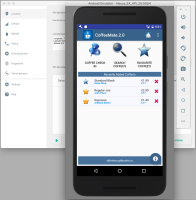
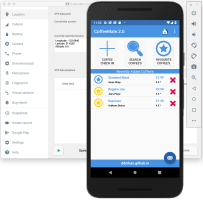
MB - More Updates to Lab02

diff --git a/topic02-ui-design/unit-1/book-coffeemate-lab-02/index.html b/topic02-ui-design/unit-1/book-coffeemate-lab-02/index.html
@@ -1039,11 +1039,11 @@ getActivity().startActivity(goEdit); // Launch the Intent</code></pre>
 <p>Currently, if we wanted to delete more than one coffee at a time we need to delete them individually, which does achieve what we want, but is not a great User Experience if there are dozens of coffees to remove.</p>
 <p>This is where we can utilise a Context Menu and the ActionBar / Action Mode features available to us in Android.</p>
 <h1>Setting up your Resources &amp; XML</h1>
-<p>This is what we want when the user &#39;Long Clicks&#39; a row in our List.</p>
-<p><img src="img/lab0310.png" alt=""></p>
+<p>This is what we want when the user &#39;Long Clicks&#39; a row (or rows) in our List.</p>
+<p><img src="img/multidelete1.png" alt=""></p>
 <p>Note the different (Context) Menu for deleting.</p>
-<p>And then subsequently</p>
-<p><img src="img/lab0311.png" alt=""></p>
+<p>And then subsequently (after deleting)</p>
+<p><img src="img/multidelete2.png" alt=""></p>
 <p>To achieve this we need to</p>
 <ul>
 <li><p>design the Context Menu</p>
@@ -1054,33 +1054,36 @@ getActivity().startActivity(goEdit); // Launch the Intent</code></pre>
 </li>
 </ul>
 <p>First, let&#39;s design the Menu to look something this:</p>
-<p><img src="img/lab0312.png" alt=""></p>
+<p><img src="img/delete1.png" alt=""></p>
 <p>and</p>
-<p><img src="img/lab0313.png" alt=""></p>
-<p>create a new menu resource in the &#39;menu&#39; folder called &#39;delete_list_context.xml&#39; and place the following code inside it - just make sure you have the proper string resource set up beforehand (&#39;deleteCoffeesLbl&#39;)</p>
+<p><img src="img/delete2.png" alt=""></p>
+<p>create a new menu resource in the &#39;menu&#39; folder called <b>delete_list_context.xml</b> and place the following code inside it - just make sure you have the proper string resource set up beforehand (&#39;deleteCoffeesLbl&#39;)</p>
 <pre><code class="lang-XML">&lt;?xml version=&quot;1.0&quot; encoding=&quot;utf-8&quot;?&gt;
 &lt;menu xmlns:app=&quot;http://schemas.android.com/apk/res-auto&quot;
     xmlns:android=&quot;http://schemas.android.com/apk/res/android&quot;&gt;
     &lt;item
         android:id=&quot;@+id/menu_item_delete_coffee&quot;
         android:icon=&quot;@android:drawable/ic_menu_delete&quot;
-        android:title=&quot;@string/deleteCoffeesLbl&quot; /&gt;
+        android:title=&quot;@string/deleteCoffeesLbl&quot;
+        app:showAsAction=&quot;ifRoom&quot; /&gt;
 &lt;/menu&gt;</code></pre>
-<p>Next, create a new drawable <b>selector</b> resource xml file in the &#39;drawable&#39; folder called &#39;background_activated.xml&#39; and place the following inside</p>
+<p>Next, add a new &#39;color&#39; Resource</p>
+<pre><code class="lang-xml">&lt;color name=&quot;colorMultiDelete&quot;&gt;#b1c4d9&lt;/color&gt;</code></pre>
+<p>and then, create a new <b>drawable</b> resource xml file in the &#39;drawable&#39; folder called &#39;background_activated.xml&#39; and place the following inside</p>
 <pre><code class="lang-XML">&lt;?xml version=&quot;1.0&quot; encoding=&quot;utf-8&quot;?&gt;
 &lt;selector xmlns:android=&quot;http://schemas.android.com/apk/res/android&quot; &gt;
     &lt;item
         android:state_activated=&quot;true&quot;
-        android:drawable=&quot;@color/appFooterBGColor&quot;
+        android:drawable=&quot;@color/colorMultiDelete&quot;
         /&gt;
 &lt;/selector&gt;</code></pre>
 <p>Now, edit your <b>coffeerow.xml</b> and add the resource you just created as the background color property for the whole layout (at the top), like so</p>
 <pre><code class="lang-xml"> android:background=&quot;@drawable/background_activated&quot;</code></pre>
-<p>Finally, edit your <b>styles.xml</b> and add the following to your &#39;AppTheme&#39; style. If you like, you can experiment with you own colors?</p>
+<p>Finally, edit your <b>styles.xml</b> and add the following to your &#39;<b>AppTheme</b>&#39; style. If you like, you can experiment with you own colors?</p>
 <pre><code class="lang-xml">&lt;item name=&quot;windowActionModeOverlay&quot;&gt;true&lt;/item&gt;
 &lt;item name=&quot;actionModeBackground&quot;&gt;@color/colorPrimary&lt;/item&gt;</code></pre>
 <h1>Implementing the MultiChoice Listener interface</h1>
-<p>The first thing to do is open up &#39;CoffeeFragment.java&#39; and make sure this class implements the interface we need:</p>
+<p>The first thing to do is open up &#39;<b>CoffeeFragment.java</b>&#39; and make sure this class implements the interface we need - <b>AbsListView.MultiChoiceModeListener</b> : </p>
 <pre><code class="lang-java">public class CoffeeFragment  extends ListFragment implements  OnClickListener,
                                           AbsListView.MultiChoiceModeListener
 {
@@ -1118,7 +1121,7 @@ getActivity().startActivity(goEdit); // Launch the Intent</code></pre>
   public View onCreateView(LayoutInflater inflater, ViewGroup parent, Bundle savedInstanceState) {
     View v = super.onCreateView(inflater, parent, savedInstanceState);
 
-    listView = (ListView) v.findViewById(android.R.id.list);
+    listView = v.findViewById(android.R.id.list);
     listView.setChoiceMode(ListView.CHOICE_MODE_MULTIPLE_MODAL);
     listView.setMultiChoiceModeListener(this);
 
@@ -1130,12 +1133,6 @@ getActivity().startActivity(goEdit); // Launch the Intent</code></pre>
           <li> <h1>Completed CoffeeFragment</h1>
 <p>Here&#39;s the full source code for the updated CoffeeFragment class, and the full solution can be found on the next, final step.</p>
 <pre><code class="lang-java">package ie.cm.fragments;
-
-import ie.cm.R;
-import ie.cm.activities.Base;
-import ie.cm.activities.Edit;
-import ie.cm.adapters.CoffeeListAdapter;
-import ie.cm.models.Coffee;
 
 import android.app.AlertDialog;
 import android.app.ListFragment;
@@ -1149,163 +1146,159 @@ import android.view.Menu;
 import android.view.MenuInflater;
 import android.view.MenuItem;
 import android.view.View;
-import android.view.View.OnClickListener;
-
 import android.view.ViewGroup;
 import android.widget.AbsListView;
 import android.widget.ListView;
 
-public class CoffeeFragment  extends ListFragment implements  OnClickListener,
-                                          AbsListView.MultiChoiceModeListener
+import ie.cm.R;
+import ie.cm.activities.Base;
+import ie.cm.activities.Edit;
+import ie.cm.adapters.CoffeeListAdapter;
+import ie.cm.models.Coffee;
+
+public class CoffeeFragment  extends ListFragment implements View.OnClickListener,
+        AbsListView.MultiChoiceModeListener
 {
-  protected         Base                activity;
-  protected static  CoffeeListAdapter     listAdapter;
-  protected         ListView             listView;
+    public Base activity;
+    public static CoffeeListAdapter listAdapter;
+    public ListView listView;
 
-  public CoffeeFragment() {
-    // Required empty public constructor
-  }
-
-  public static CoffeeFragment newInstance() {
-    CoffeeFragment fragment = new CoffeeFragment();
-    return fragment;
-  }
-@Override
-  public void onAttach(Context context)
-  {
-    super.onAttach(context);
-    this.activity = (Base) context;
-  }
-
-  @Override
-  public void onCreate(Bundle savedInstanceState) {
-    super.onCreate(savedInstanceState);
-
-    listAdapter = new CoffeeListAdapter(activity, this, Base.coffeeList);
-    setListAdapter (listAdapter);
-  }
-
-  @Override
-  public View onCreateView(LayoutInflater inflater, ViewGroup parent, Bundle savedInstanceState) {
-    View v = super.onCreateView(inflater, parent, savedInstanceState);
-
-    listView = (ListView) v.findViewById(android.R.id.list);
-    listView.setChoiceMode(ListView.CHOICE_MODE_MULTIPLE_MODAL);
-    listView.setMultiChoiceModeListener(this);
-
-    return v;
-  }
-
-
-
-  @Override
-  public void onStart()
-  {
-    super.onStart();
-  }
-
-  @Override
-  public void onClick(View view)
-  {
-    if (view.getTag() instanceof Coffee)
-    {
-      onCoffeeDelete ((Coffee) view.getTag());
+    public CoffeeFragment() {
+        // Required empty public constructor
     }
-  }
 
-  @Override
-  public void onResume() {
-    super.onResume();
-    ((CoffeeListAdapter) getListAdapter()).notifyDataSetChanged();
-  }
+    @Override
+    public void onListItemClick(ListView l, View v, int position, long id) {
+        super.onListItemClick(l, v, position, id);
 
-  @Override
-  public void onListItemClick(ListView l, View v, int position, long id)
-  {
-    Bundle activityInfo = new Bundle();
-    activityInfo.putInt(&quot;coffeeID&quot;, v.getId());
+        Bundle activityInfo = new Bundle(); // Creates a new Bundle object
+        activityInfo.putString(&quot;coffeeId&quot;, (String) v.getTag());
+        Intent goEdit = new Intent(getActivity(), Edit.class); // Creates a new Intent
+        /* Add the bundle to the intent here */
+        goEdit.putExtras(activityInfo);
+        getActivity().startActivity(goEdit); // Launch the Intent
+    }
 
-    Intent goEdit = new Intent(getActivity(), Edit.class);
-    goEdit.putExtras(activityInfo);
-    getActivity().startActivity(goEdit);
-  }
+    public static CoffeeFragment newInstance() {
+        CoffeeFragment fragment = new CoffeeFragment();
+        return fragment;
+    }
 
-  public void onCoffeeDelete(final Coffee coffee)
-  {
-    String stringName = coffee.name;
-    AlertDialog.Builder builder = new AlertDialog.Builder(activity);
-    builder.setMessage(&quot;Are you sure you want to Delete the \&#39;Coffee\&#39; &quot; + stringName + &quot;?&quot;);
-    builder.setCancelable(false);
-
-    builder.setPositiveButton(&quot;Yes&quot;, new DialogInterface.OnClickListener()
+    @Override
+    public void onAttach(Context context)
     {
-      public void onClick(DialogInterface dialog, int id)
-      {
-        Base.coffeeList.remove(coffee); // remove from our list
-        listAdapter.coffeeList.remove(coffee); // update adapters data
-        listAdapter.notifyDataSetChanged(); // refresh adapter
-      }
-    }).setNegativeButton(&quot;No&quot;, new DialogInterface.OnClickListener()
+        super.onAttach(context);
+        this.activity = (Base) context;
+    }
+
+    @Override
+    public void onCreate(Bundle savedInstanceState)
     {
-      public void onClick(DialogInterface dialog, int id)
-      {
-        dialog.cancel();
-      }
-    });
-    AlertDialog alert = builder.create();
-    alert.show();
-  }
+        super.onCreate(savedInstanceState);
+        listAdapter = new CoffeeListAdapter(activity, this, Base.coffeeList);
+        setListAdapter (listAdapter);
+    }
 
-  /* ************ MultiChoiceModeListener methods (begin) *********** */
-  @Override
-  public boolean onCreateActionMode(ActionMode actionMode, Menu menu)
-  {
-    MenuInflater inflater = actionMode.getMenuInflater();
-    inflater.inflate(R.menu.delete_list_context, menu);
-    return true;
-  }
+    @Override
+    public View onCreateView(LayoutInflater inflater, ViewGroup parent, Bundle savedInstanceState) {
+        View v = super.onCreateView(inflater, parent, savedInstanceState);
 
-  @Override
-  public boolean onPrepareActionMode(ActionMode actionMode, Menu menu)
-  {
-    return false;
-  }
+        listView = v.findViewById(android.R.id.list);
+        listView.setChoiceMode(ListView.CHOICE_MODE_MULTIPLE_MODAL);
+        listView.setMultiChoiceModeListener(this);
 
-  @Override
-  public boolean onActionItemClicked(ActionMode actionMode, MenuItem menuItem)
-  {
-    switch (menuItem.getItemId())
+        return v;
+    }
+
+    @Override
+    public void onStart()
     {
-      case R.id.menu_item_delete_coffee:
-        deleteCoffees(actionMode);
+        super.onStart();
+    }
+
+    @Override
+    public void onClick(View view)
+    {
+        if (view.getTag() instanceof Coffee)
+        {
+            onCoffeeDelete ((Coffee) view.getTag());
+        }
+    }
+
+    public void onCoffeeDelete(final Coffee coffee)
+    {
+        String stringName = coffee.coffeeName;
+        AlertDialog.Builder builder = new AlertDialog.Builder(activity);
+        builder.setMessage(&quot;Are you sure you want to Delete the \&#39;Coffee\&#39; &quot; + stringName + &quot;?&quot;);
+        builder.setCancelable(false);
+
+        builder.setPositiveButton(&quot;Yes&quot;, new DialogInterface.OnClickListener()
+        {
+            public void onClick(DialogInterface dialog, int id)
+            {
+                Base.coffeeList.remove(coffee); // remove from our list
+                listAdapter.coffeeList.remove(coffee); // update adapters data
+                listAdapter.notifyDataSetChanged(); // refresh adapter
+            }
+        }).setNegativeButton(&quot;No&quot;, new DialogInterface.OnClickListener()
+        {
+            public void onClick(DialogInterface dialog, int id)
+            {
+                dialog.cancel();
+            }
+        });
+        AlertDialog alert = builder.create();
+        alert.show();
+    }
+
+    /* ************ MultiChoiceModeListener methods (begin) *********** */
+    @Override
+    public boolean onCreateActionMode(ActionMode actionMode, Menu menu)
+    {
+        MenuInflater inflater = actionMode.getMenuInflater();
+        inflater.inflate(R.menu.delete_list_context, menu);
         return true;
-      default:
+    }
+
+    @Override
+    public boolean onPrepareActionMode(ActionMode actionMode, Menu menu) {
         return false;
     }
 
-  }
-
-  private void deleteCoffees(ActionMode actionMode)
-  {
-    for (int i = listAdapter.getCount() - 1; i &gt;= 0; i--)
+    @Override
+    public boolean onActionItemClicked(ActionMode actionMode, MenuItem menuItem)
     {
-      if (listView.isItemChecked(i))
-      {
-        Base.coffeeList.remove(listAdapter.getItem(i));
-      }
+        switch (menuItem.getItemId())
+        {
+            case R.id.menu_item_delete_coffee:
+                deleteCoffees(actionMode);
+                return true;
+            default:
+                return false;
+        }
     }
-    actionMode.finish();
-    listAdapter.notifyDataSetChanged();
-  }
 
-  @Override
-  public void onDestroyActionMode(ActionMode actionMode)
-  {}
+    private void deleteCoffees(ActionMode actionMode)
+    {
+        for (int i = listAdapter.getCount() - 1; i &gt;= 0; i--)
+        {
+            if (listView.isItemChecked(i))
+            {
+                Base.coffeeList.remove(listAdapter.getItem(i));
+            }
+        }
+        actionMode.finish();
+        listAdapter.notifyDataSetChanged();
+    }
 
-  @Override
-  public void onItemCheckedStateChanged(ActionMode actionMode, int position, long id, boolean checked)
-  {}
-  /* ************ MultiChoiceModeListener methods (end) *********** */
+    @Override
+    public void onDestroyActionMode(ActionMode actionMode)
+    {}
+
+    @Override
+    public void onItemCheckedStateChanged(ActionMode actionMode, int position, long id, boolean checked)
+    {}
+    /* ************ MultiChoiceModeListener methods (end) *********** */
 }</code></pre>
 </li>
         
@@ -1318,7 +1311,7 @@ public class CoffeeFragment  extends ListFragment implements  OnClickListener,
 <h2>Exercise</h2>
 <p>In this lab you have experimented with Custom Adapters &amp; Fragments:</p>
 <ul>
-<li>Experiment with modifying the custom layout of our Coffee Row in our List</li>
+<li>Experiment with modifying the custom layout of your Coffee Row in our List</li>
 </ul>
 </li>
         
